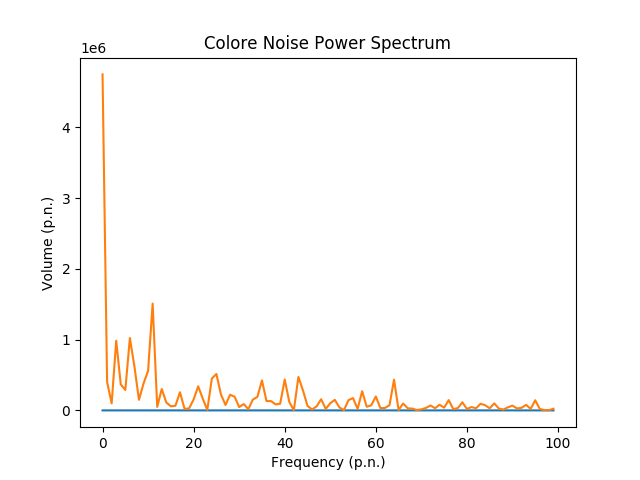
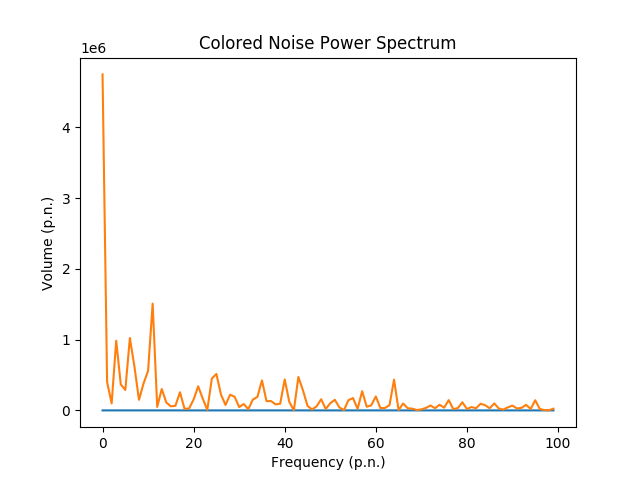
Corretto typo in grafici.

Changed region(s): [[0.3125, 0.0625, 0.7188, 0.125]]

diff --git a/testing/cn_graphics.py b/testing/cn_graphics.py
@@ -27,4 +27,4 @@ def plot_cn_ps(ps_noise_sample, n=100):
 	(first n frequencies) and export a png image"
 
 	plot_list_limited(ps_noise_sample, n, "Frequency (p.n.)", "Volume (p.n.)", \
-	"Colore Noise Power Spectrum", "cn_ps_plot.png")
+	"Colored Noise Power Spectrum", "cn_ps_plot.png")
